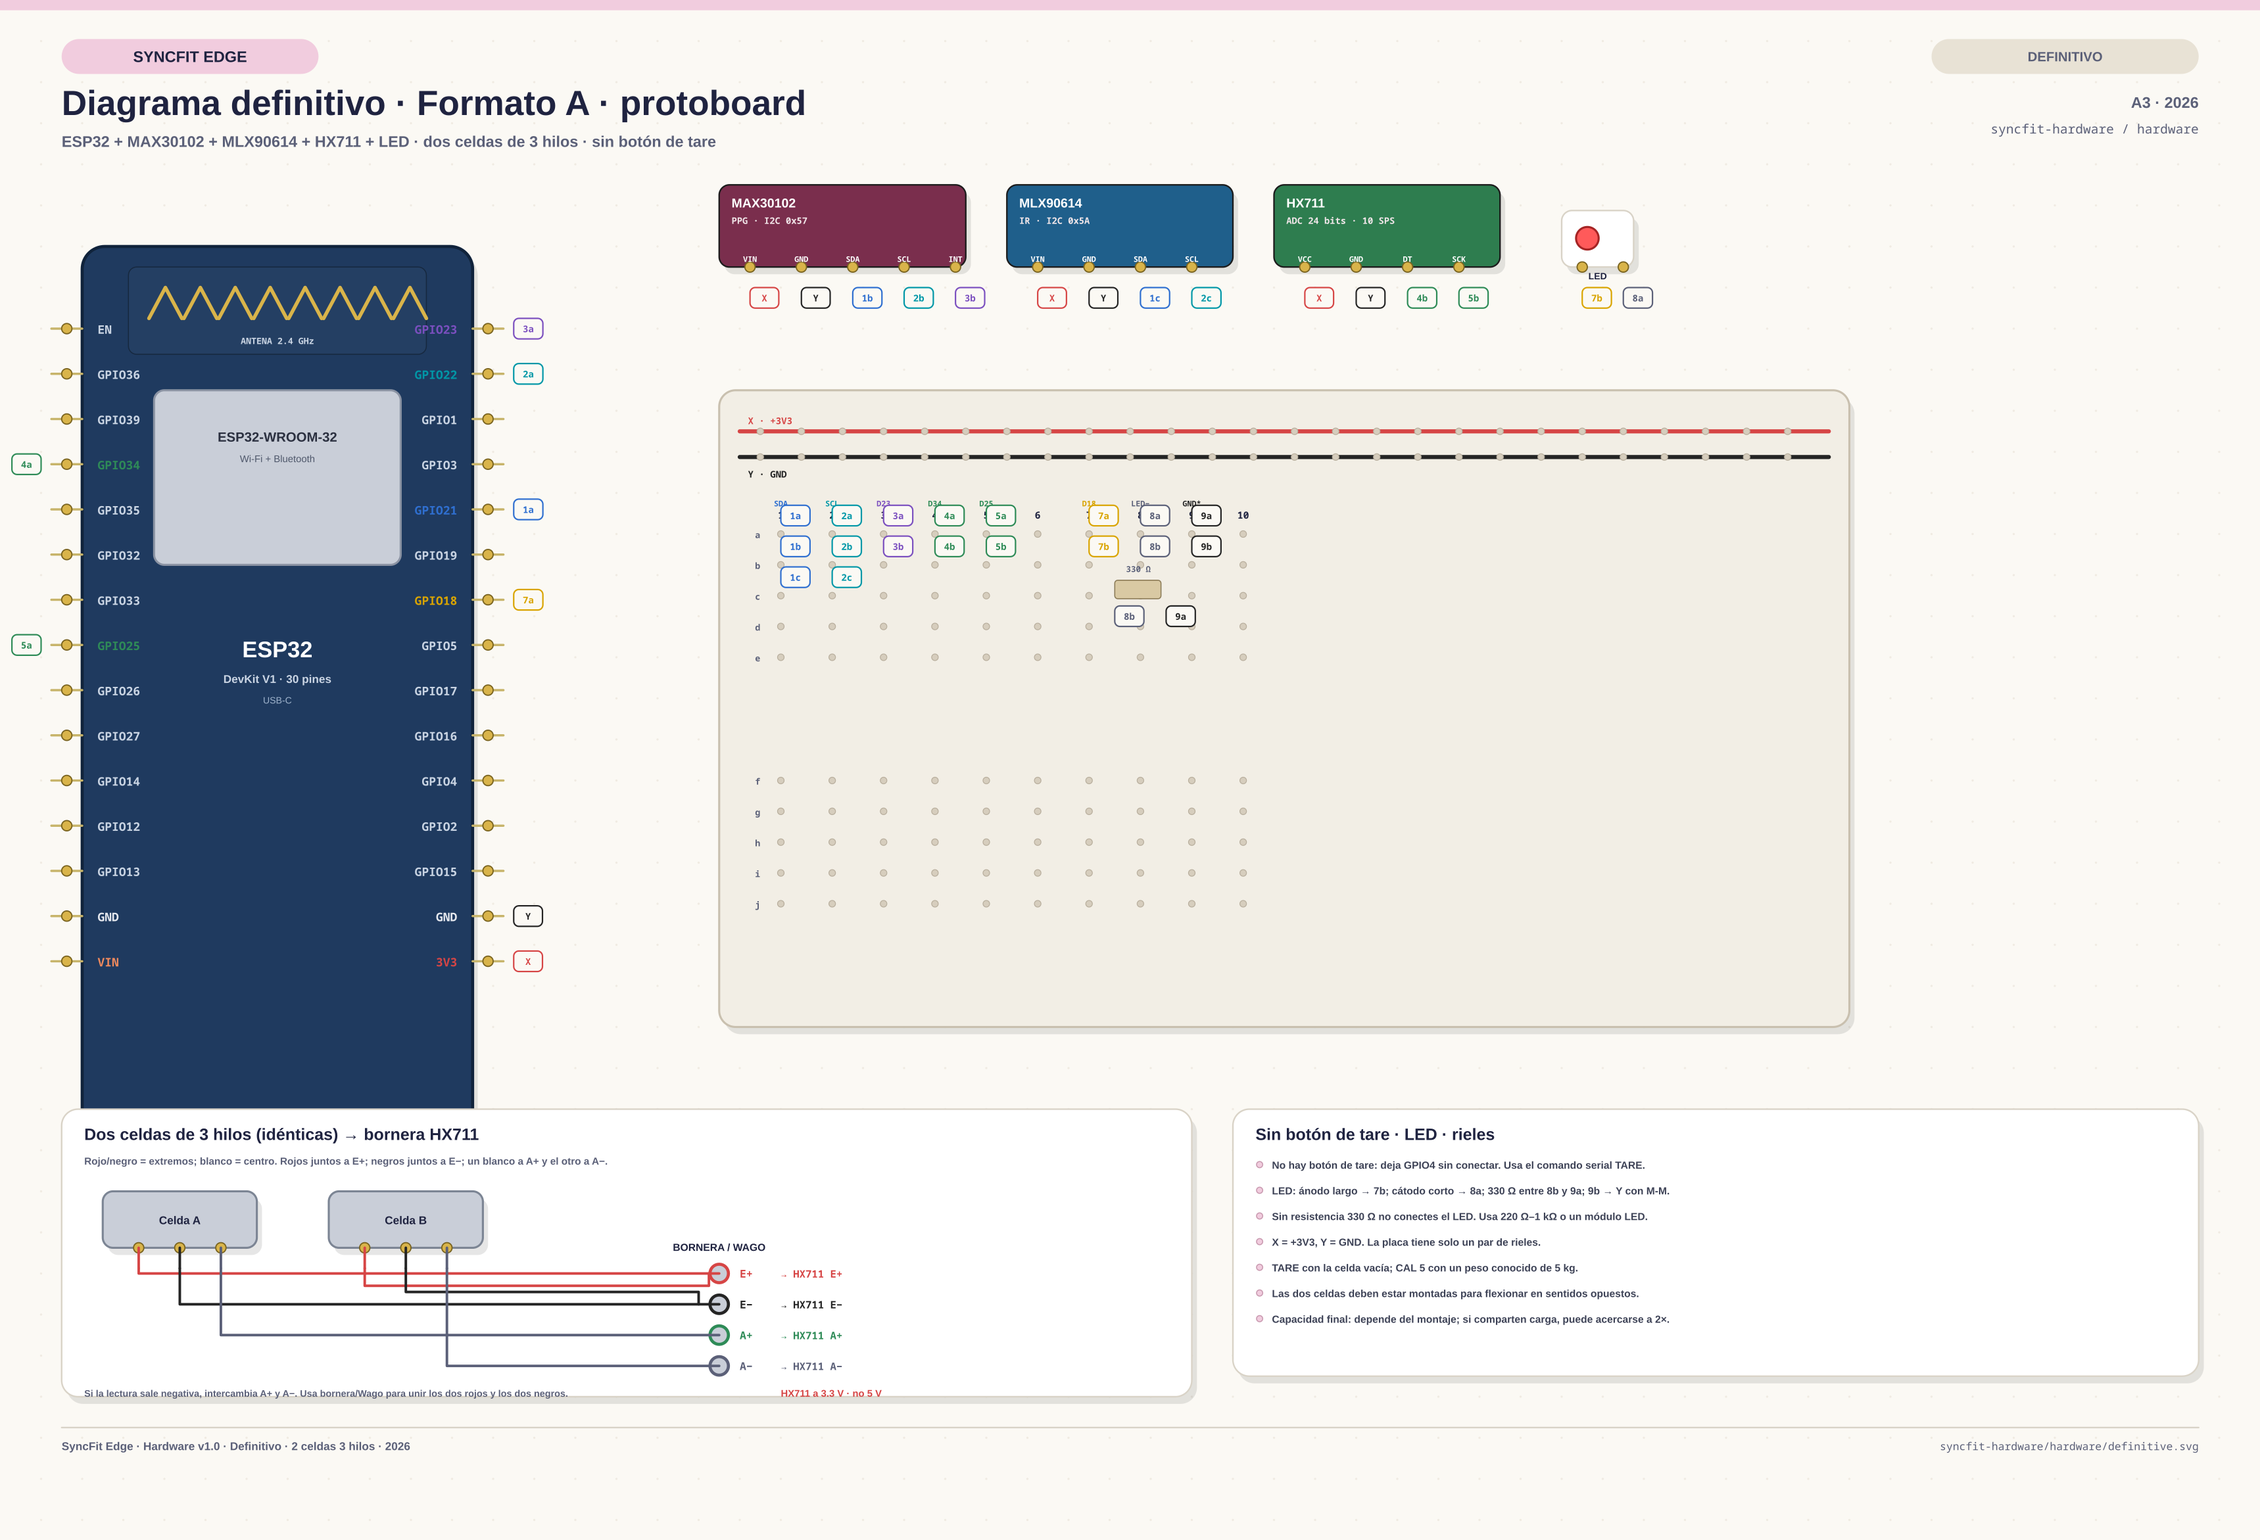
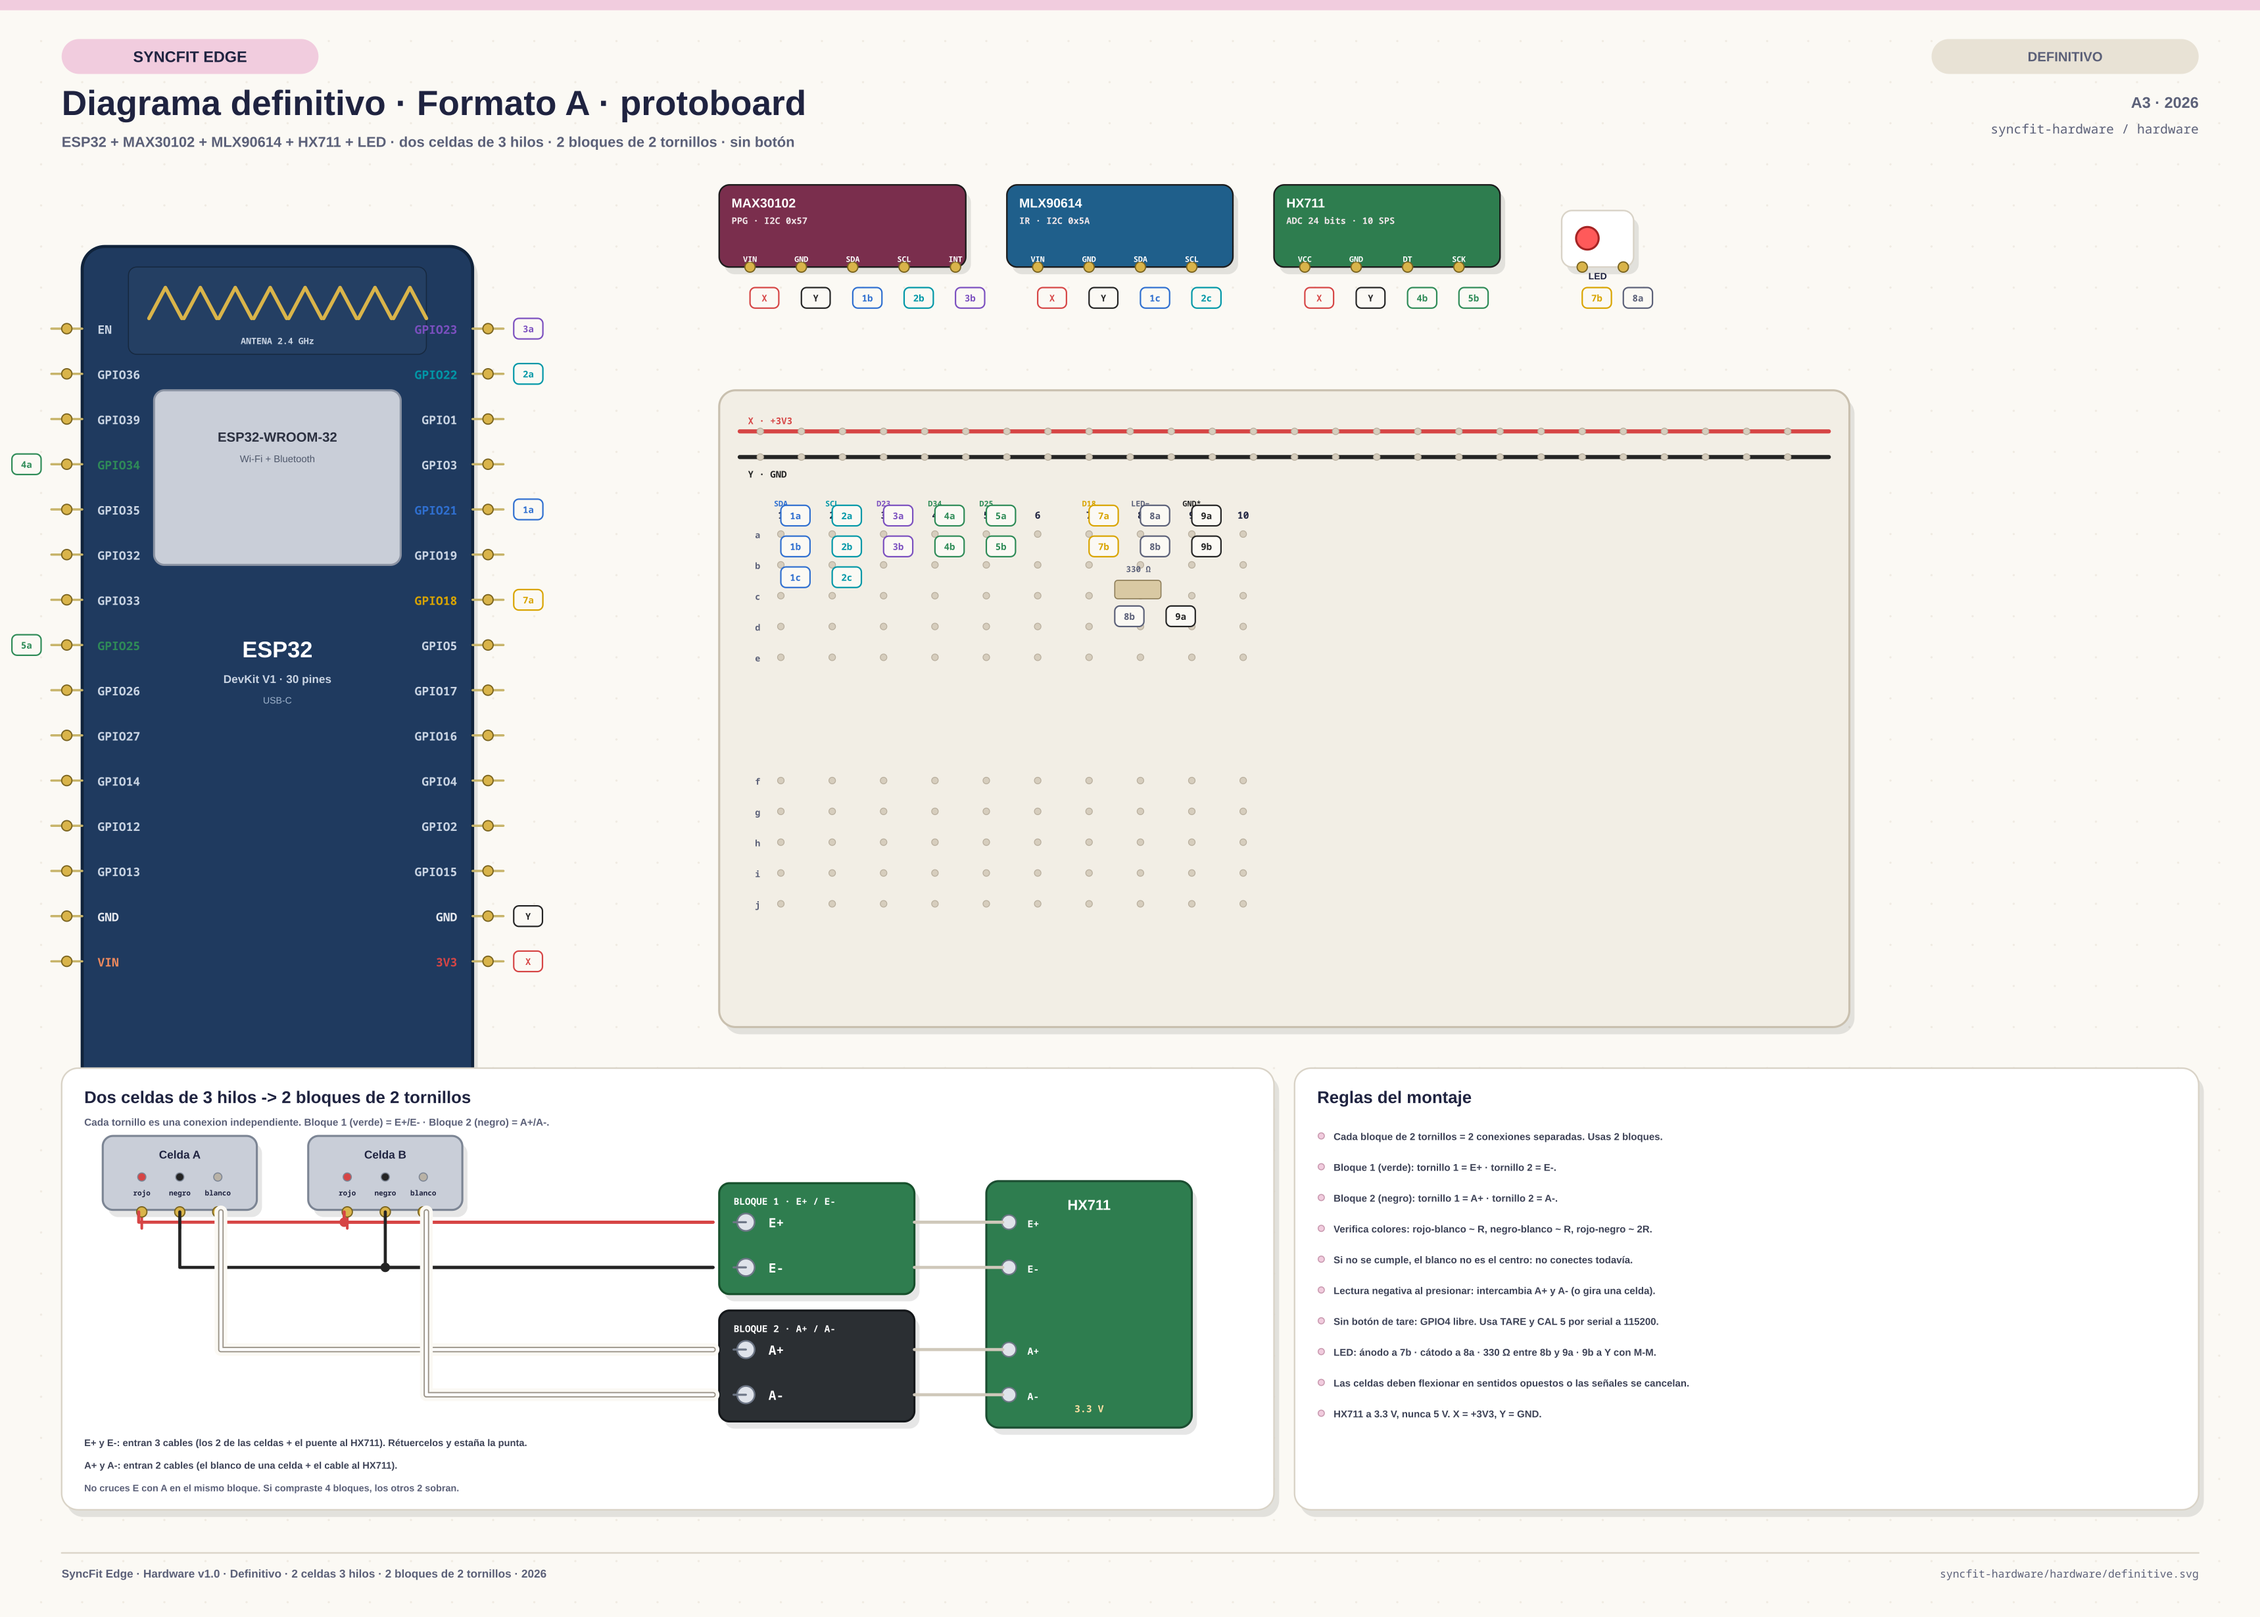
docs(hardware): join the two cells with two 2-position screw blocks
Redraws the definitive Format A diagram around the two 2-position blocks the user bought: green block 1 for E+/E-, black block 2 for A+/A-. Documents that three wires per E screw are twisted into one conductor, and updates the connection map, pinout, BOM and READMEs.

diff --git a/hardware/connection-map.md b/hardware/connection-map.md
@@ -3,6 +3,7 @@
 **Board:** ESP32 DevKit V1, generic 30-pin, USB-C.  
 **Breadboard:** 400 points, used only as a bus; the ESP32 and modules stay free.  
 **Power rails:** only one pair, labeled **X** and **Y**.  
+**Cell join:** two 2-position screw blocks; green = `E+`/`E−`, black = `A+`/`A−`.  
 **Diagram:** [`definitive.svg`](definitive.svg) · [`definitive.png`](definitive.png)
 
 > **X = +3V3** · **Y = GND**  
@@ -139,10 +140,45 @@ final capacity depends on the mount: if the cells share the load, it can
 approach 2× the single-cell rating; if one takes the full load, it remains the
 single-cell rating.
 
-**Connecting the wires:** the HX711 screw terminal has one hole per terminal.
-Join the two reds and the two blacks with a small **terminal block / Wago** or a
-soldered pigtail, then insert one wire per HX711 terminal. Do not force two thick
-wires into one screw.
+### 7.1 Two 2-position terminal blocks
+
+The build uses **two screw terminal blocks of 2 positions**, one **green** and one
+**black**. Each block is two independent screws, so the four nets never touch:
+
+| Block | Screw | Net | What goes in the screw |
+|---|---|---|---|
+| **1 · green** | 1 | `E+` | cell A red + cell B red + wire to HX711 `E+` |
+| **1 · green** | 2 | `E−` | cell A black + cell B black + wire to HX711 `E−` |
+| **2 · black** | 1 | `A+` | cell A white + wire to HX711 `A+` |
+| **2 · black** | 2 | `A−` | cell B white + wire to HX711 `A−` |
+
+```text
+ red A ─┐
+ red B ─┼─► [1·1 green] ──► HX711 E+
+ wire  ─┘
+
+ blk A ─┐
+ blk B ─┼─► [1·2 green] ──► HX711 E−
+ wire  ─┘
+
+ wht A ─┐
+ wire  ─┴─► [2·1 black] ──► HX711 A+
+ wht B ─┐
+ wire  ─┴─► [2·2 black] ──► HX711 A−
+```
+
+**Three wires do not fit in one screw.** Twist the two cell wires together with
+the short wire that goes to the HX711 and tin the tip, so the bundle enters as a
+single conductor. The `A+`/`A−` screws only take two wires and need no twisting
+beyond keeping the pair short.
+
+Rules:
+
+- Colour-code the blocks: **green = excitation (`E`), black = signal (`A`)**.
+- **Never** put an `E` net and an `A` net in the same block.
+- If a block turns out to be a common busbar (every screw connected to every
+  other), it cannot carry two different nets. Use it for a single net only.
+- Two spare blocks are fine if you bought four; keep them as spares.
 
 ## 8. Tare and calibration without a button
 
@@ -169,7 +205,7 @@ CAL 5
 | **M-F** | ESP32 or free module male header → breadboard hole. Main cable. |
 | **M-M** | Only inside the breadboard: `9b` → `Y`, or joining a column/rail. |
 | **F-F** | Not needed. Only for two male headers directly without a breadboard. |
-| **No jumper** | Load cells → HX711 terminal block (screwdriver). |
+| **No jumper** | Load cells → 2-position blocks → HX711 (screwdriver only). |
 
 ## 10. Soldering
 
@@ -177,7 +213,8 @@ CAL 5
 
 - The ESP32 and sensor modules already have their male headers soldered.
 - You use the 400-point board as a bus and M-F/M-M jumpers.
-- The two load cells go to a terminal block/Wago and the HX711 screw terminal.
+- The two load cells go to the two 2-position blocks and then to the HX711
+  screw terminal.
 
 **You need a soldering iron** if:
 
@@ -190,7 +227,7 @@ CAL 5
 1. Disconnect USB-C. Check continuity: `X`–`Y` must not be shorted.
 2. Connect USB-C; measure about 3.3 V between X and Y.
 3. I2C scan: expect `0x57` (MAX30102) and `0x5A` (MLX90614).
-4. Connect the two cells to the HX711 terminal block; run `TARE`.
+4. Wire both cells to the two 2-position blocks, then to the HX711; run `TARE`.
 5. Add a known weight and run `CAL 5` or `CAL 10`.
 6. Test the LED: anode on column 7, cathode on column 8, 330 Ω to column 9,
    column 9 to Y with M-M.

diff --git a/hardware/pinout.md b/hardware/pinout.md
@@ -110,8 +110,19 @@ the center; red and black are the ends.
 | `A−` | Cell B white |
 
 If the reading goes negative when pressing, swap `A+` and `A−`, or rotate one
-cell 180°. Join the two reds and two blacks with a small terminal block/Wago or a
-soldered pigtail; the HX711 has only one hole per terminal.
+cell 180°. Join the two reds and the two blacks with **two 2-position screw
+blocks**: one green for `E+`/`E−` and one black for `A+`/`A−`. Twist the pair of
+cell wires together with the wire that goes to the HX711, because a single
+screw does not take three separate wires.
+
+| Block | Screw | Net |
+|---|---|---|
+| 1 · green | 1 | `E+` — cell A red + cell B red + wire to HX711 |
+| 1 · green | 2 | `E−` — cell A black + cell B black + wire to HX711 |
+| 2 · black | 1 | `A+` — cell A white + wire to HX711 |
+| 2 · black | 2 | `A−` — cell B white + wire to HX711 |
+
+Never put an `E` net and an `A` net in the same block.
 
 HX711 at **10 SPS**, gain 128, channel A. Keep the cell wires short and twisted.
 The final capacity depends on the mechanical mount: if the cells share the load,
@@ -142,6 +153,7 @@ resistor (220 Ω–1 kΩ is acceptable).
 | J3 | JST-XH 4-pin | 1: 3V3 · 2: GND · 3: SDA · 4: SCL |
 | J4 | JST-XH 4-pin | 1: 3V3 · 2: GND · 3: DT · 4: SCK |
 | J5 | 4-pin screw terminal | E+, E−, A+, A− (two 3-wire cells) |
+| TB1-TB2 | 2 × 2-position screw block | Green = E+/E−, black = A+/A− |
 | J6 | 2-pin header (optional) | GPIO4, GND — not used without a tare button |
 | J7 | JST-PH 2-pin | BAT+, GND (Format B) |
 | J8 | JST-XH 2-pin | GPIO18, GND |
@@ -157,8 +169,9 @@ resistor (220 Ω–1 kΩ is acceptable).
 1. Continuity: 3V3 and GND must not short.
 2. Power the board from USB-C only; measure 3.3 V on the sensor rail.
 3. I2C scan: expect `0x57` (MAX30102) and `0x5A` (MLX90614).
-4. HX711: connect the two 3-wire cells to a terminal block/Wago, then to `E+`,
-   `E−`, `A+`, `A−`. Run `TARE` and `CAL <kg>` from the serial monitor.
+4. HX711: wire both 3-wire cells to the two 2-position blocks (green `E+`/`E−`,
+   black `A+`/`A−`), then to the module. Run `TARE` and `CAL <kg>` from the serial
+   monitor.
 5. Verify the LED with the 330 Ω resistor before connecting it.
 6. Check that the two cells are mounted so they flex in opposite directions.
 7. Send telemetry to the local backend WebSocket, not production, until the hardware is validated.

diff --git a/hardware/README.md b/hardware/README.md
@@ -22,7 +22,8 @@ Physical design artifacts for the two form factors.
 - [`definitive.svg`](definitive.svg) — editable A3 vector diagram.
 - [`definitive.png`](definitive.png) — high-resolution export.
 - [`connection-map.md`](connection-map.md) — exact pin-to-hole map, two 3-wire
-  cells, LED, no tare button and serial calibration.
+  cells with their two 2-position blocks, LED, no tare button and serial
+  calibration.
 - [`pinout.md`](pinout.md) — full ESP32 pinout and bring-up checks.
 - [`bom.csv`](bom.csv) — bill of materials.
 
@@ -32,6 +33,8 @@ The definitive build uses:
 - **X = +3V3**, **Y = GND** (the board has only one pair of rails).
 - **Two identical 3-wire half-bridge load cells** in a full bridge:
   reds → `E+`, blacks → `E−`, whites → `A+` / `A−`.
+- **Two 2-position screw blocks** (one green, one black) as the cell junction:
+  green = `E+`/`E−`, black = `A+`/`A−`; one net per screw.
 - **No tare button**: GPIO4 is left free; use the serial command `TARE`.
 - **LED** on GPIO18 through a **330 Ω** resistor (220 Ω–1 kΩ acceptable).
 - **M-F** jumpers from components to the breadboard; **M-M** only inside the
@@ -45,7 +48,7 @@ The definitive build uses:
 | MAX30102 | INT | 23 |
 | MLX90614 | SDA / SCL | 21 / 22 (shared I2C) |
 | HX711 | DT / SCK | 34 / 25 |
-| Two 3-wire cells | reds `E+`, blacks `E−`, whites `A+`/`A−` | HX711 terminal block |
+| Two 3-wire cells | reds `E+`, blacks `E−`, whites `A+`/`A−` | 2-position blocks → HX711 |
 | Status LED | GPIO → 330 Ω → LED → Y | 18 |
 | Buzzer (optional) | GPIO → NPN | 17 |
 | Battery ADC (Format B) | divider 100k/100k | 35 |

diff --git a/README.md b/README.md
@@ -106,8 +106,9 @@ provisioning, Wi-Fi WebSocket client, mock-sensor build and the definitive
 Format A build sheet (`hardware/definitive.svg`, `definitive.png`,
 `connection-map.md`, `pinout.md`, `bom.csv`). Pending: hardware-in-the-loop
 calibration, CI contract validation, electrical schematic and Format B. The
-definitive build uses two identical 3-wire half-bridge cells, no tare button,
-and the 400-point board as a bus. See `hardware/README.md`.
+definitive build uses two identical 3-wire half-bridge cells joined with two
+2-position screw blocks, no tare button, and the 400-point board as a bus. See
+`hardware/README.md`.
 
 ## Context for a new session
 
